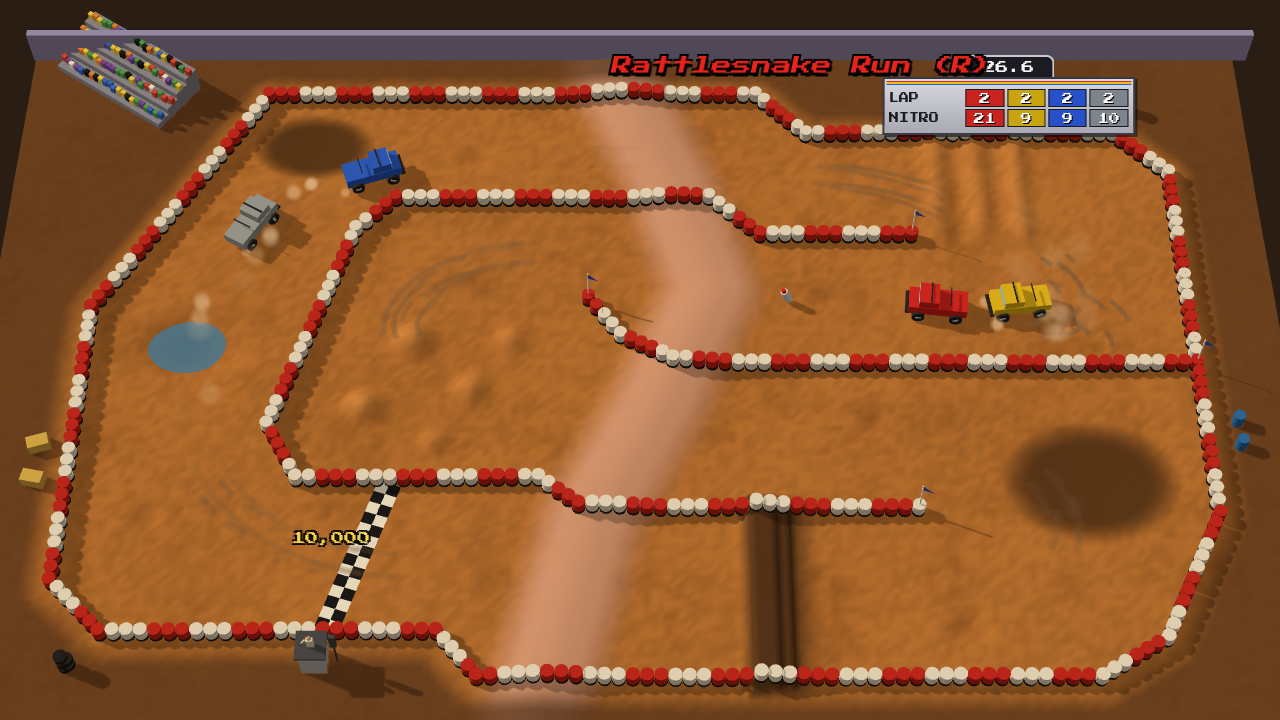
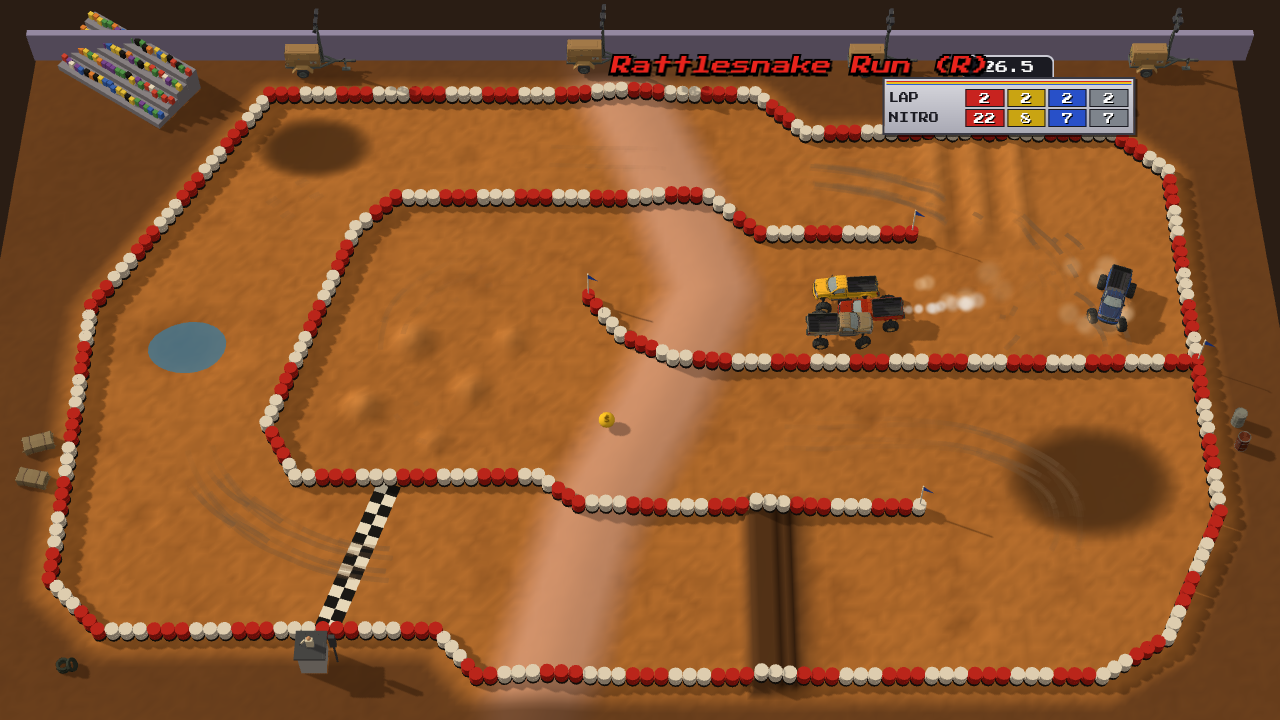
Docs: models section (recipe, scale, props, cost, bundle), OR-FB-001 verified, OR-FB-003..007, screenshots with the real trucks

diff --git a/docs/DESIGN.md b/docs/DESIGN.md
@@ -24,6 +24,7 @@ src/
     line.ts          RacingLine: closed Catmull-Rom spline, arc-length samples, project / pointAt / curvature
     build.ts         grid → ground mesh, water, mud sheen, tyre walls + flags, start line, flagman tower + start
                      lamps, stadium dressing, props, colliders, surface queries
+    props-view.ts    swaps the placeholder props for instanced prop GLBs (PROP_MODELS table) + floodlights
   race/
     session.ts       the world + track + 1–4 trucks and views, effects, physics → game events
     race.ts          the race flow: Get Ready → lamps → race (gates, laps) → finish → results, records, pickups
@@ -31,7 +32,7 @@ src/
     roster.ts        the four trucks (colours, our driver names, skills), start nitros, prize money
     pickups.ts       money bags and nitro bottles on the racing line, escalating values
     events.ts        the game event bus (audio subscribes here)
-    models.ts        loads public/models/models.json (ssg model apply) when present
+    models.ts        public/models/models.json (ssg model apply) when present: modelIndex(), loadModel(name)
     truck-view.ts    the truck's look: the generator's GLB with manifest-driven wheels, or the box placeholder
   fx/
     particles.ts     pooled instanced billboards: dust, water splash, mud spray, nitro smoke
@@ -218,14 +219,60 @@ lap times / nitros / bags / progress, results, record, pickups), `autopilot(on)`
 - `scripts/feel-probe.mjs`: acceleration, braking, turn rate, jump and whoops numbers on the proving ground.
 
 ## Models (from the generator)
-`ssg.models.json` lists what the game wants (format: generator TODO "3D models + Off Road" contract): the lifted pickup
-`POLYGON_Palm_City/SM_Veh_Pickup_Lift_01` in 4 tints with `origin: axle-centre`, and props (Apocalypse tyre wall,
-tyre pile and barrels, War hay bale, Palm City traffic light for the start lamps, a barrier). `npm run assets` runs
-`ssg model apply` into `public/models/` (git-ignored), which writes the index `models.json` (shape: the generator's
-docs/MODELS.md). `race/models.ts` loads `truck_<colour>` from it when the file existed at dev-server/build start
-(`__HAS_MODELS__` in vite.config.ts, so a missing folder never 404s; restart the dev server after `npm run assets`).
-`TruckView` then draws the GLB for the truck's tint, scaled so its length matches the 4.5 m chassis (OR-FB-002), its
-axle-centre origin placed on the wheel centres at rest, and turns the manifest's `wheels` nodes (fl, fr, rl, rr):
-spin about `axle` from the raycast wheel's rotation, steer the `steer: true` ones about +y, and move each by its
-suspension travel. Without models it draws the box truck. (Tested with a synthetic models.json + GLBs; the real
-export is pending OR-FB-001.)
+`ssg.models.json` lists what the game wants (format: the generator's docs/MODELS.md). `npm run assets`
+(`scripts/build-assets.mjs`) runs `ssg model apply ssg.models.json --out public/models --json` into `public/models/`
+(git-ignored), which downloads only changed exports, removes undeclared ones and writes the index `models.json`.
+A cold build of all models takes ~8–11 s; a re-run with no changes downloads nothing. Restart the dev server
+afterwards: `__HAS_MODELS__` (vite.config.ts) is decided at server start, so a missing folder never 404s.
+
+| Name | Asset | Notes |
+|---|---|---|
+| `truck_red/blue/yellow/grey` | `POLYGON_Palm_City/SM_Veh_Pickup_01` + attach `SM_Veh_Pickup_Lift_01` | tint #c62828 / #1e5bc6 / #f2c618 / #8a8f94, `origin: axle-centre`, 1024 px |
+| `tire_pile`, `tire_stack` | Apocalypse `SM_Prop_Tire_Pile_01`, BattleRoyale `SM_Prop_TireStack_01` | kind `tyre_pile` (variant by position) |
+| `barrel`, `barrel_coloured` | Apocalypse `SM_Prop_Barrel_01`, `SM_Prop_Barrel_Coloured_01` | kind `barrel` |
+| `hay_bale` | War `SM_Prop_Hay_Bale_01` | kind `hay_bale` |
+| `tire`, `cone`, `barrier` | Apocalypse `SM_Prop_Tire_01`, Palm City `SM_Prop_Cone_01`, `SM_Prop_Barrier_01` | kinds `tyre`, `cone`, `barrier`, ready for new tracks |
+| `floodlight` | Apocalypse `SM_Prop_Floodlights_01` (a light-mast trailer) | stadium dressing along the back wall |
+
+Props default to 256 px WebP textures (Synty atlases are flat colour swatches; 256 px looks the same at the race
+camera), trucks 1024 px WebP. Tried and dropped: billboards (their sign art does not come through, OR-FB-005), a
+stadium light mast (the light-pole pieces are modular parts, OR-FB-007), the Apocalypse tyre wall and a traffic
+light for the start tree (see below).
+
+**Trucks** (`race/truck-view.ts`). `loadTruckModels()` loads `truck_<colour>`; `TruckView` draws the GLB inside a
+holder scaled so the model's wheelbase (`wheels.fl.pos` → `wheels.rl.pos`, 4.33 m) matches the physics wheelbase
+(2.9 m) times `TRUCK_LOOK = 1.12` (OR-FB-002: no target size in the export). The truck is then ~5.1 m long,
+2.9 m wide over the tyres, with 0.63 m wheels, against the 4.5 × 1.9 m chassis and 0.5 m raycast wheels. That is
+deliberately chunky, like the original's trucks, so they read at the far camera; the look is a little wider than
+the collider, so trucks look a touch closer than they bump. The axle-centre origin is placed so the scaled tyres
+touch the ground where the raycast wheels do at rest (a bigger model wheel lifts the body rather than sinking).
+Each frame the manifest's `wheels` nodes (fl, fr, rl, rr) spin about `axle` from the raycast wheel's rotation, the
+`steer: true` ones turn about +y, and each moves by its suspension travel (divided by the holder's scale). The
+pickup's bed liner is black, so from behind a truck's colour shows mainly on the cab, and the grey reads warm under
+the low sun. Without models the box truck is drawn.
+
+**Props** (`track/props-view.ts`). `dressTrack(track)` runs from the Session constructor (fire and forget). It maps
+each track JSON `props` entry's `kind` to model names through `PROP_MODELS`, adds floodlight trailers along the back
+wall, builds one `InstancedMesh` per GLB mesh per model with every placement, and then hides the build.ts
+placeholders it replaced (kinds not in the table keep theirs). Props are drawn at `PROP_LOOK = 1.4` (floodlights
+1.2 × that) to match the 1 m wall tyres and the chunky trucks.
+
+**Tyre walls stay procedural.** The walls are a tyre per metre × 3 rows in one InstancedMesh (1 draw call) painted in the
+original's red and white bands. The Synty tyre wall is a 4.3 m run of bare black tyres, 0.7 m tall: it would need
+~100 instances per track, could not carry the bands and would not match the 1.3 m wall height. The lamp tree on the
+flagman tower also stays procedural: the race lights its three lamps, and a GLB traffic light has no lamp parts.
+
+**Cost** (Rattlesnake race, 4 trucks, SwiftShader at 1280×720; counted from the scene, main pass):
+
+| | draw calls | triangles | fps (SwiftShader) |
+|---|---|---|---|
+| placeholders (box trucks) | 112 | 131k | 5.1 |
+| generator models | 103 | 211k | 4.4 |
+
+Each truck is 16.7k triangles in 14 meshes (doors, glass, wheels, lift kit); props are one mesh each, one draw call
+per model however many are placed. SwiftShader is CPU-bound and runs ~5 fps either way (the checks use
+`advance()`); on a real GPU the scene is well inside budget.
+
+**Bundle**: `dist/` is 11 MB: the JS bundle 5.2 MB (1.9 MB gzipped; mostly Rapier's WASM inlined) and
+`dist/models/` 5.9 MB, of which the four trucks are 4 × 1.37 MB (0.66 MB gzipped each, the same geometry four
+times, OR-FB-006) and the nine props 0.7 MB. With the default PNG textures the models were 19.6 MB (OR-FB-004).

diff --git a/FEEDBACK.md b/FEEDBACK.md
@@ -26,7 +26,12 @@ Status: `open` → `triaged (TODO: …)` → `fixed (<commit>)` → `verified` (
 - Workaround: `src/race/truck-view.ts` draws a placeholder box truck; `src/track/build.ts` draws primitive tyre walls.
   `scripts/build-assets.mjs` prints a notice and exits 0 while the command is missing.
 - Suggested change: ship M1/M2.
-- Status: open
+- Status: verified (generator wave 16, 2026-10-21). `ssg model apply ssg.models.json --out public/models --json`
+  exports all 13 models cold in ~8–11 s, re-runs download nothing, removed entries' files are deleted, no
+  `warnings`. Each GLB has a single root named after the spec `name` with identity transforms (no extra root
+  transform), wheel nodes sit at `wheels.pos` with identity rotation, and the lift-kit recipe gives four wheels that
+  spin and steer correctly in the game. The real trucks and props replace the placeholders (`race/truck-view.ts`,
+  `track/props-view.ts`); the placeholders remain only as the no-models fallback.
 
 ## OR-FB-002 · No target size for a model export (the game rescales the GLB to its physics)
 - Severity: workaround        Milestone: OR2
@@ -37,8 +42,70 @@ Status: `open` → `triaged (TODO: …)` → `fixed (<commit>)` → `verified` (
   game code doing maths on the manifest. The track scale (truck ≈ 1/19 of the arena width) is fixed by the
   original's proportions, so the truck size is a design input, not whatever the Synty pickup measures.
 - Got: the export is always in the model's own metres.
-- Workaround: `src/race/truck-view.ts` scales the loaded GLB by `4.5 × 1.06 / bounds.size[2]` and divides wheel
-  suspension offsets by that scale (tagged `// OR-FB-002`).
+- Workaround: `src/race/truck-view.ts` scales the loaded GLB so `wheels.fl.pos`→`wheels.rl.pos` (4.33 m) matches
+  the physics wheelbase (2.9 m) × `TRUCK_LOOK` 1.12, offsets the holder so the scaled 0.837 m wheels touch the
+  ground, and divides suspension offsets by the scale (tagged `// OR-FB-002`). Re-checked with the live export
+  (2026-10-21): still needed; the lifted pickup is 6.85 m long against our 4.5 m chassis.
 - Suggested change: a `fit` (or `scale`) spec field / `--fit-length` flag, applied before the manifest numbers are
   computed (so wheel radius, pivots and the collider box come out scaled too).
+- Status: open
+
+## OR-FB-003 · `ssg model apply --help` does not list `--json`
+- Severity: polish        Milestone: OR3
+- Tried: `ssg model apply --help` (shows only `--out`), then `ssg model apply ssg.models.json --out public/models --json`.
+- Wanted: the `--json` flag listed in the help, as docs/MODELS.md says every command takes it.
+- Got: `--json` works (stdout `{ dir, index, models: [{ name, id, action, cached, glb, manifest }] }`, the per-model
+  lines on stderr), but only by trying it. `action` values seen: `written`, `updated`, `unchanged`.
+- Workaround: none (`scripts/build-assets.mjs` documents the output shape it reads).
+- Suggested change: add `--json` to the help of `model apply` / `export` / `info`, and document the apply summary in
+  docs/MODELS.md.
+- Status: open
+
+## OR-FB-004 · Default PNG textures make every prop GLB carry a whole atlas (~600 KB for a cone)
+- Severity: polish        Milestone: OR3
+- Tried: the recipe with `"defaults": { "texSize": 1024 }` (PNG by default).
+- Wanted: small prop files; a cone or barrel is a few hundred triangles on flat colour swatches.
+- Got: each GLB embeds its pack's full 1024 px PNG atlas: 17 models = 19.6 MB (barrel 590 KB, cone 770 KB,
+  truck 2.6 MB). Every prop from the same pack carries its own copy of the same atlas.
+- Workaround: `ssg.models.json` sets `"defaults": { "texSize": 256, "texFormat": "webp" }` and 1024 px only on the
+  trucks: 13 models = 5.7 MB (cone 36 KB, truck 1.37 MB), no visible difference at the race camera.
+- Suggested change: default to WebP, or pick the texture size by kind (props 256–512); optionally let `apply` write a
+  pack's atlas once as a shared external texture that several GLBs reference.
+- Status: open
+
+## OR-FB-005 · Billboards export without their sign art
+- Severity: workaround        Milestone: OR3
+- Tried: `POLYGON_Palm_City/SM_Prop_Billboard_02` (256 and 1024 px), and `POLYGON_City/SM_Prop_Billboard_01` with
+  `attach: ["205"]` (`SM_Prop_Billboard_Sign_01`).
+- Wanted: a trackside billboard with its advert, for stadium dressing.
+- Got: the Palm City billboard's face shows the whole PolygonPalmCity_01_B/C atlas (rows of swatches and tiny
+  decals) instead of one advert; the City frame + sign shows a dark grey panel with atlas fragments. It looks like
+  the sign meshes use a dedicated sign texture or a UV sub-rect the export does not carry.
+- Workaround: no billboards (`track/props-view.ts` comment); floodlight trailers dress the back wall instead.
+- Suggested change: bind sign/billboard materials to their own textures (or expose the texture choice in the spec,
+  e.g. `textures: { slot: "Billboard_03" }`), and let `model info` show the materials and textures an export uses.
+- Status: open
+
+## OR-FB-006 · Four tints of one truck are four full copies of its geometry
+- Severity: polish        Milestone: OR3
+- Tried: `truck_red/blue/yellow/grey`, the same asset + attach with different `tint`.
+- Wanted: one geometry download and a tinted texture (or material variant) per colour.
+- Got: four 1.37 MB GLBs (0.66 MB gzipped each), identical except the texture: 5.5 MB of the 5.9 MB model folder.
+- Workaround: none (the game loads all four).
+- Suggested change: `tints: { red: "#c62828", … }` on one spec, written as one GLB with KHR_materials_variants, or
+  a texture-only output per tint; separately, an option for meshopt/quantised geometry.
+- Status: open
+
+## OR-FB-007 · Prop search gives no hint that a hit is a modular piece or oddly scaled
+- Severity: polish        Milestone: OR3
+- Tried: `ssg assets floodlight|"stadium light"|"light pole" --kind prop`, then `ssg model info` on the hits.
+- Wanted: a tall stadium light mast for the arena corners.
+- Got: most hits are parts or doll-sized: `POLYGON_City/SM_Prop_LightPole_CrossLights_01` 0.46 × 0.40 m,
+  `POLYGON_Gang_Warfare/SM_Prop_Light_Portable_Lights_01` 0.60 × 0.18 m, `POLYGON_Apocalypse/SM_Prop_Floodlights_02`
+  0.20 × 0.45 m. `POLYGON_BattleRoyale/SM_Prop_Spotlight_01` is a 6.4 m pole whose head leaves the frame. Only
+  `model info` (one call per hit) reveals the sizes; the search table has no size column and no "part of a modular
+  set" flag.
+- Workaround: `POLYGON_Apocalypse/SM_Prop_Floodlights_01` (a light-mast trailer, 3.5 × 3.9 m) as the floodlight.
+- Suggested change: a size column (metres) in `ssg assets` / `search_assets`, and a modular-piece flag or a link to
+  the assembled prefab when the pack has one.
 - Status: open

diff --git a/README.md b/README.md
@@ -11,7 +11,9 @@ source assets by hand.
 track with a ridge across every lane, a plank jump, whoops, mud and a puddle (also raceable in reverse). Three CPU
 drivers follow the racing line, bump you, fire nitros on the straights and pick up money bags and nitro bottles.
 A flagman and a lamp tree start the race; the podium pays $100K / $90K / $80K / $70K and keeps the track record.
-The trucks are placeholder boxes until the generator's 3D export lands; the season and shop come next (`TODO.md`).
+The trucks are lifted Synty pickups in four paints and the trackside props (tyre piles, barrels, hay bales,
+floodlight trailers) are Synty models too, all exported as GLBs by `npm run assets`; the season and shop come next
+(`TODO.md`).
 
 ![The results podium](docs/screenshots/race-results.png)
 
